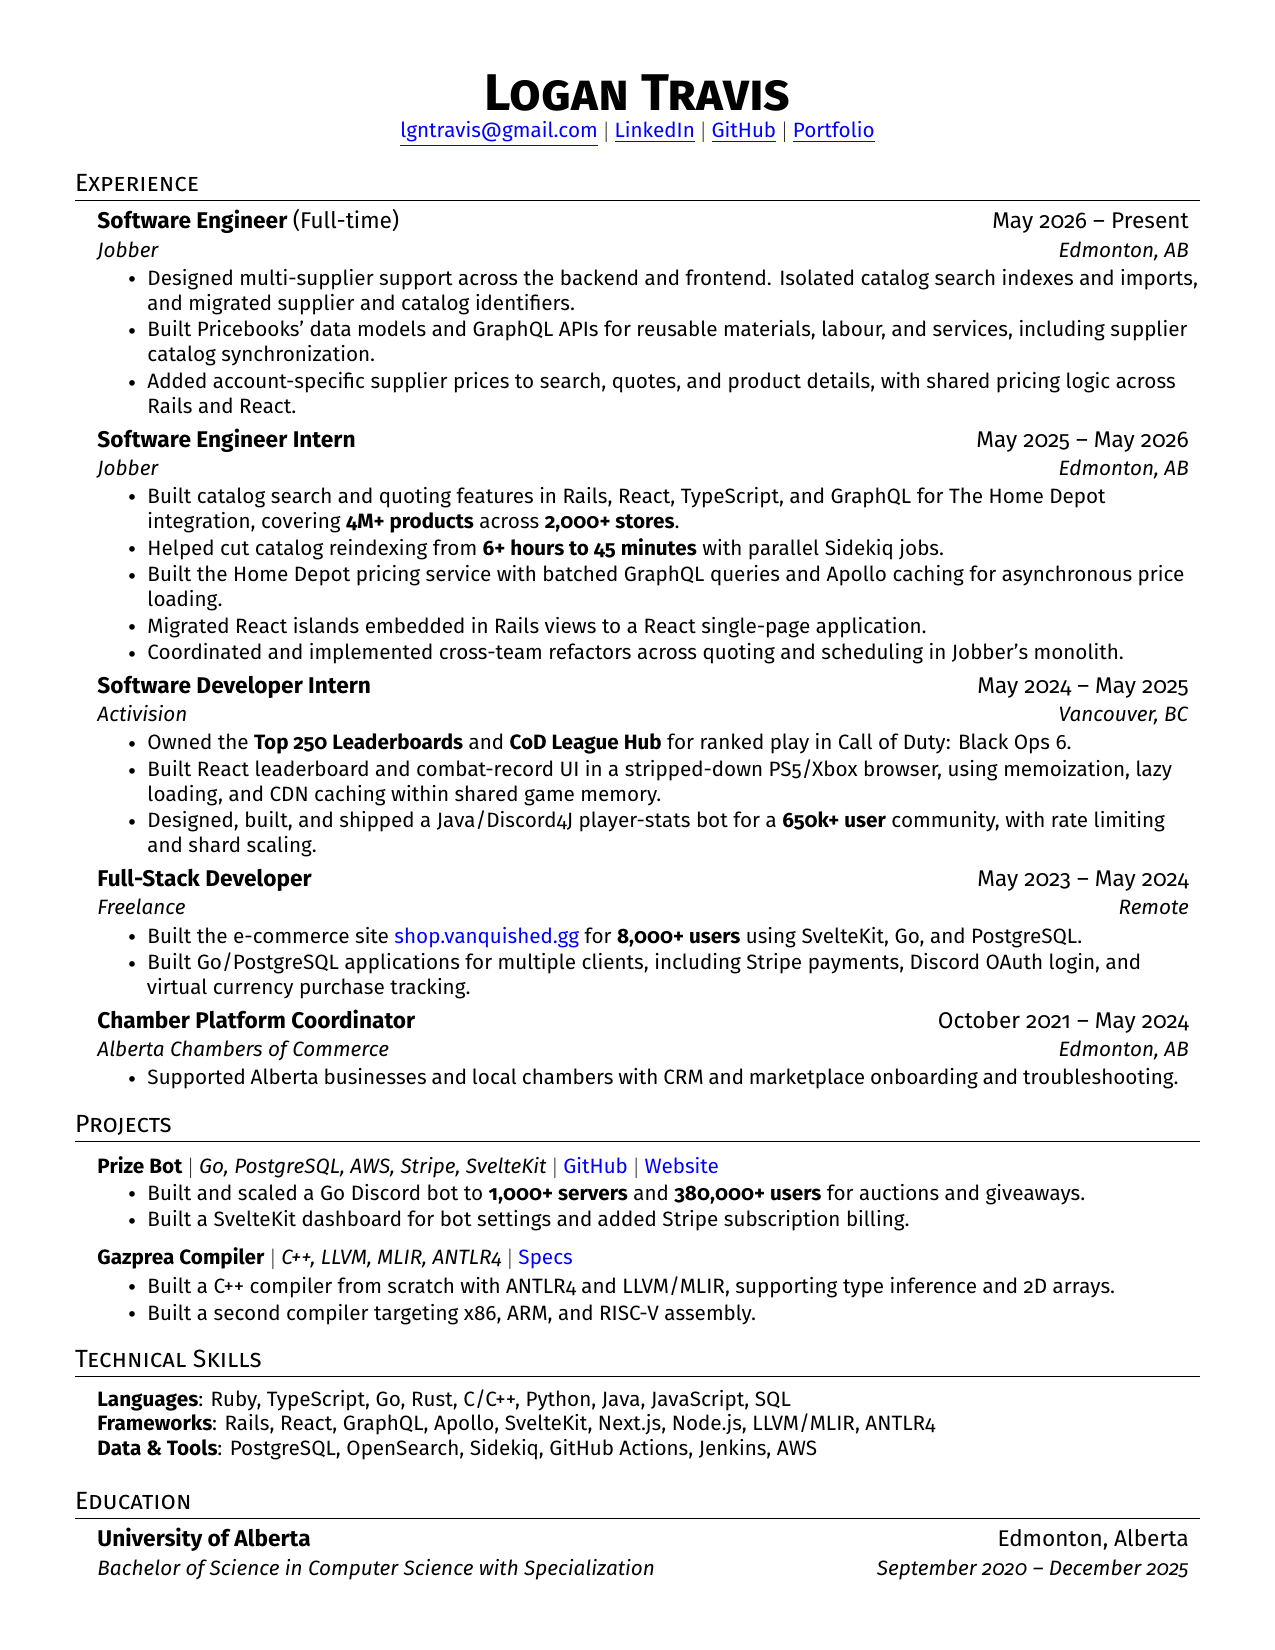
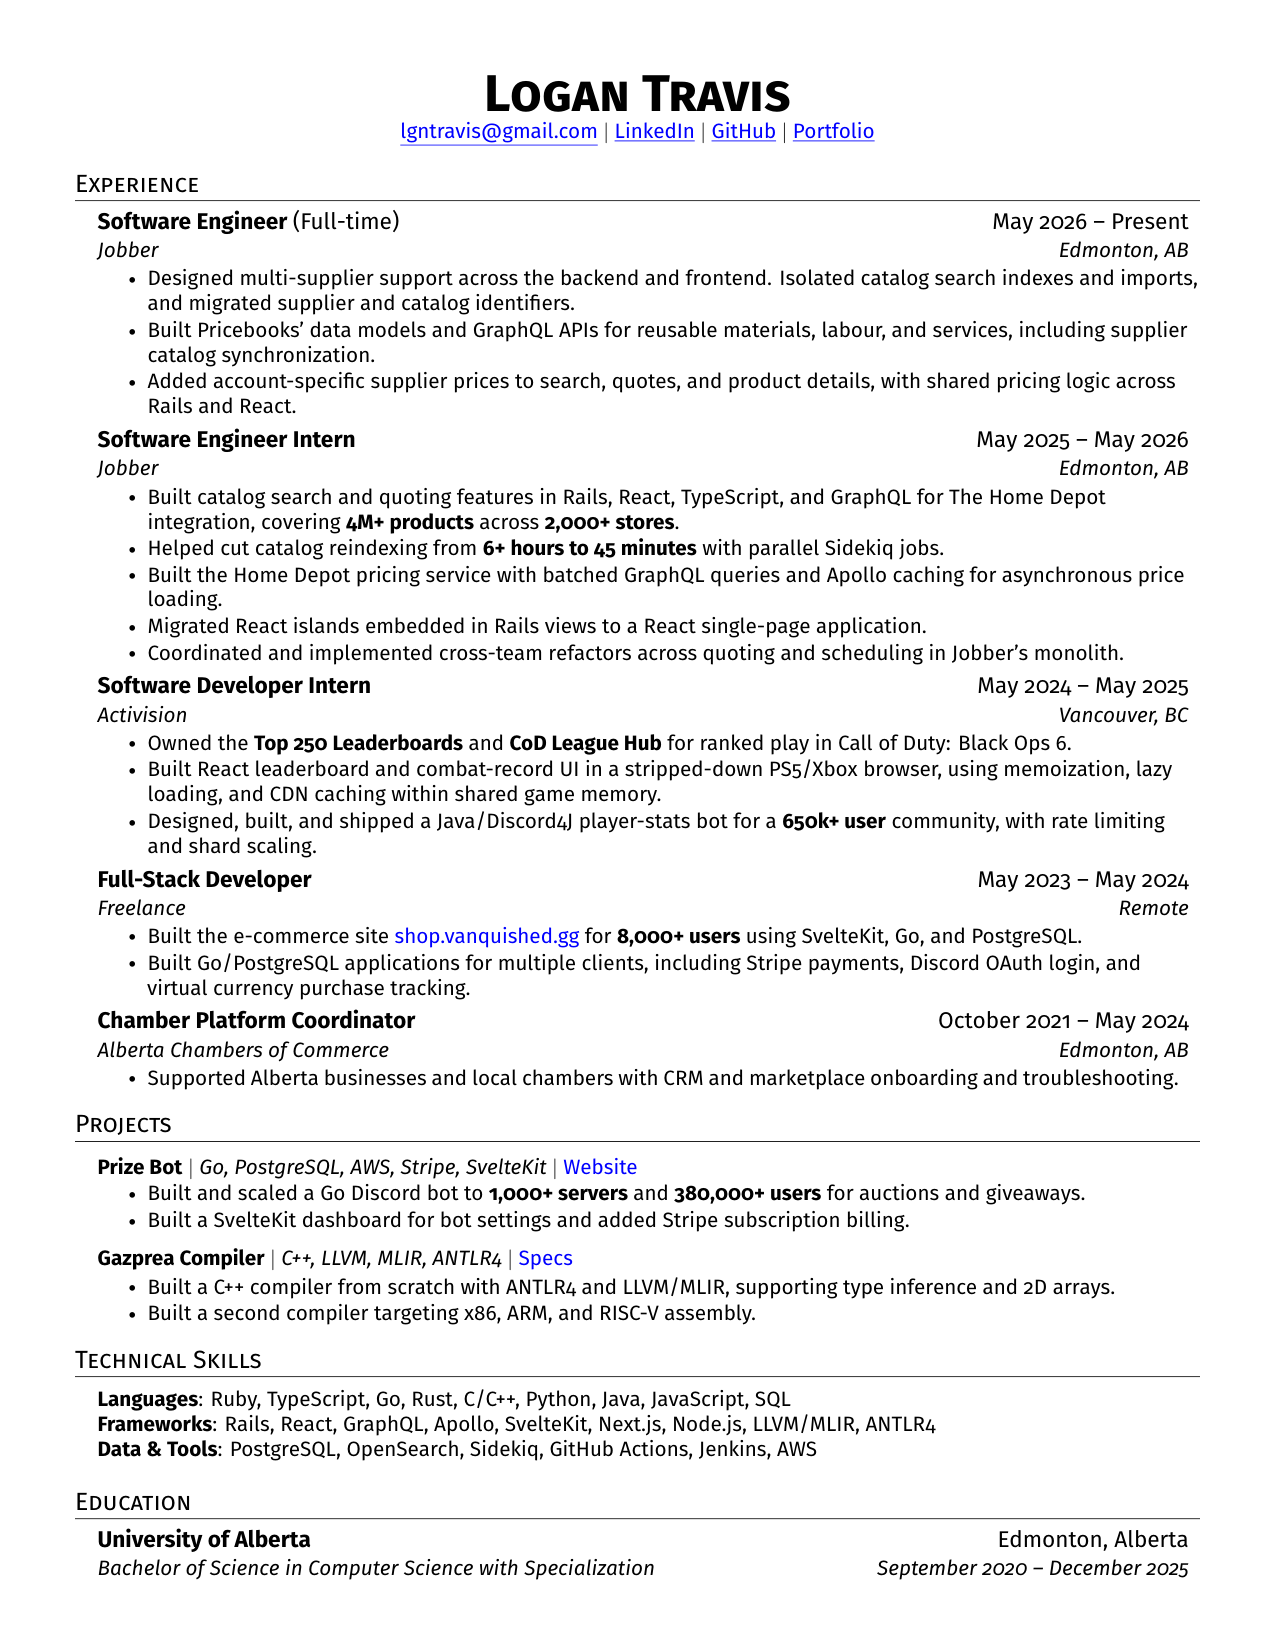
Remove unavailable project links from resumes

diff --git a/2-page/resume.tex b/2-page/resume.tex
@@ -228,7 +228,7 @@
 \resumeSubHeadingListStart
 
 \resumeProjectHeading
-{\textbf{Prize Bot} $|$ \emph{Go, PostgreSQL, AWS, Stripe, SvelteKit} $|$ \href{https://github.com/Logan9312/Prize-Bot-V1}{GitHub} $|$ \href{https://www.prizebot.dev/}{Website}}{}
+{\textbf{Prize Bot} $|$ \emph{Go, PostgreSQL, AWS, Stripe, SvelteKit} $|$ \href{https://www.prizebot.dev/}{Website}}{}
 \resumeItemListStart
 \resumeItem{Built and scaled a Go Discord bot to \textbf{1,000+ servers} and \textbf{380,000+ users}, with auctions, giveaways, and automated tickets for prize distribution.}
 \resumeItem{Built a SvelteKit dashboard for configuring the bot.}
@@ -261,7 +261,7 @@
 
 % Database omitted here: the previous heading listed PostgreSQL, while its bullet named MongoDB.
 \resumeProjectHeading
-{\textbf{Multiplayer Poker Engine} $|$ \emph{Rust, Rocket, SvelteKit} $|$ \href{https://therustykrab.xyz}{Website}}{}
+{\textbf{Multiplayer Poker Engine} $|$ \emph{Rust, Rocket, SvelteKit}}{}
 \resumeItemListStart
 \resumeItem{Built a multiplayer poker server in Rust with asynchronous game loops using Rocket.}
 \resumeItem{Implemented multiple poker variants in SvelteKit with real-time WebSocket communication.}

diff --git a/resume.tex b/resume.tex
@@ -196,7 +196,7 @@
 \resumeSubHeadingListStart
 
 \resumeProjectHeading
-{\textbf{Prize Bot} $|$ \emph{Go, PostgreSQL, AWS, Stripe, SvelteKit} $|$ \href{https://github.com/Logan9312/Prize-Bot-V1}{GitHub} $|$ \href{https://www.prizebot.dev/}{Website}} {}
+{\textbf{Prize Bot} $|$ \emph{Go, PostgreSQL, AWS, Stripe, SvelteKit} $|$ \href{https://www.prizebot.dev/}{Website}} {}
 \resumeItemListStart
 \resumeItem{Built and scaled a Go Discord bot to \textbf{1,000+ servers} and \textbf{380,000+ users} for auctions and giveaways.}
 \resumeItem{Built a SvelteKit dashboard for bot settings and added Stripe subscription billing.}
